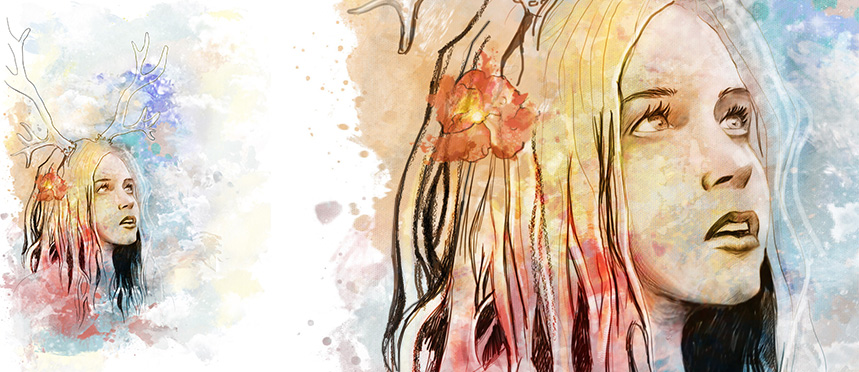
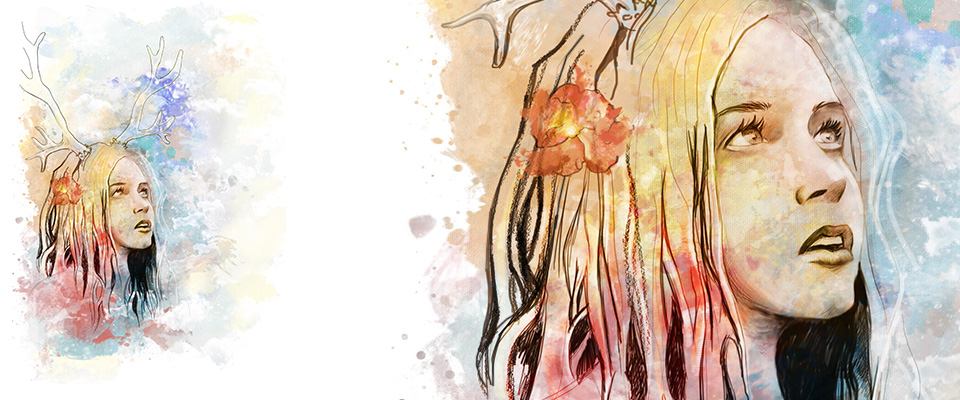
added slick images

diff --git a/index.html b/index.html
@@ -14,30 +14,38 @@
 
 		<meta name="viewport" content="width=device-width, initial-scale=1.0, maximum-scale=1.0, user-scalable=no">
 		<link rel="stylesheet" href="css/reveal.min.css">
-
-		<!-- If the query includes 'print-pdf', use the PDF print sheet -->
+        
+        <link rel="stylesheet" type="text/css" href="http://cdn.jsdelivr.net/jquery.slick/1.3.7/slick.css"/>
+        <!-- If the query includes 'print-pdf', use the PDF print sheet -->
 		<script>
 			document.write( '<link rel="stylesheet" href="css/print/' + ( window.location.search.match( /print-pdf/gi ) ? 'pdf' : 'paper' ) + '.css" type="text/css" media="print">' );
 		</script>
-
+        <script type="text/javascript" src="http://code.jquery.com/jquery-1.11.1.min.js"/></script>
+        <script type="text/javascript" src="http://cdn.jsdelivr.net/jquery.slick/1.3.7/slick.min.js"></script>
+        <script type="text/javascript" src="lib/js/head.min.js"></script>
 		<!--[if lt IE 9]>
 		<script src="lib/js/html5shiv.js"></script>
 		<![endif]-->
 
-<script type="text/javascript">
-    (function() {
-        var path = '//easy.myfonts.net/v2/js?sid=229904(font-family=Trend+Slab+One)&sid=229909(font-family=Trend+Sans+One)&key=etykpJaCdP',
-            protocol = ('https:' == document.location.protocol ? 'https:' : 'http:'),
-            trial = document.createElement('script');
-        trial.type = 'text/javascript';
-        trial.async = true;
-        trial.src = protocol + path;
-        var head = document.getElementsByTagName("head")[0];
-        head.appendChild(trial);
-    })();
-</script>
+        <!-- myfonts -->
+        <script type="text/javascript">
+            (function() {
+                var path = '//easy.myfonts.net/v2/js?sid=229904(font-family=Trend+Slab+One)&sid=229909(font-family=Trend+Sans+One)&key=etykpJaCdP',
+                    protocol = ('http:'),
+                    trial = document.createElement('script');
+                trial.type = 'text/javascript';
+                trial.async = true;
+                trial.src = protocol + path;
+                var head = document.getElementsByTagName("head")[0];
+                head.appendChild(trial);
+            })();
+        </script>
 
         <style type='text/css'>
+            #banner{
+                max-width: 100%;
+                max-height: 100%;
+            }
             .title{
                 float: right;
                 color: #676767;
@@ -53,59 +61,77 @@
                 height: 600px;
             }
             section .main_image{
-                margin-top: 3em;
+                margin-top: 7em;
             }
+
+            .slick-slide img{
+                max-width: 100% !important;
+                max-height: 100% !important;
+            }
+
+            .slick-prev:before, .slick-next:before{
+                color: #999;
+            }
+            .main_image .slick-dots{
+                display: block;
+                text-align: center;
+                padding: 0px;
+            }
+
             .tiff_creative{
                 position: absolute;
                 bottom: 0;
                 left: 0;
+                max-width: 100% !important;
+                max-height: 100% !important;
             }
             /*********************************************
- * NAVIGATION CONTROLS
- *********************************************/
-.reveal .controls div.navigate-left,
-.reveal .controls div.navigate-left.enabled {
-  border-right-color: #8adadb; }
+             * NAVIGATION CONTROLS
+             *********************************************/
+            .reveal .controls div.navigate-left,
+            .reveal .controls div.navigate-left.enabled {
+              border-right-color: #8adadb; }
 
-.reveal .controls div.navigate-right,
-.reveal .controls div.navigate-right.enabled {
-  border-left-color: #8adadb; }
+            .reveal .controls div.navigate-right,
+            .reveal .controls div.navigate-right.enabled {
+              border-left-color: #8adadb; }
 
-.reveal .controls div.navigate-up,
-.reveal .controls div.navigate-up.enabled {
-  border-bottom-color: #8adadb; }
+            .reveal .controls div.navigate-up,
+            .reveal .controls div.navigate-up.enabled {
+              border-bottom-color: #8adadb; }
 
-.reveal .controls div.navigate-down,
-.reveal .controls div.navigate-down.enabled {
-  border-top-color: #8adadb; }
+            .reveal .controls div.navigate-down,
+            .reveal .controls div.navigate-down.enabled {
+              border-top-color: #8adadb; }
 
-.reveal .controls div.navigate-left.enabled:hover {
-  border-right-color: #8adadb; }
+            .reveal .controls div.navigate-left.enabled:hover {
+              border-right-color: #8adadb; }
 
-.reveal .controls div.navigate-right.enabled:hover {
-  border-left-color: #8adadb; }
+            .reveal .controls div.navigate-right.enabled:hover {
+              border-left-color: #8adadb; }
 
-.reveal .controls div.navigate-up.enabled:hover {
-  border-bottom-color: #8adadb; }
+            .reveal .controls div.navigate-up.enabled:hover {
+              border-bottom-color: #8adadb; }
 
-.reveal .controls div.navigate-down.enabled:hover {
-  border-top-color: #8adadb; }
+            .reveal .controls div.navigate-down.enabled:hover {
+              border-top-color: #8adadb; }
 
-/*********************************************
- * PROGRESS BAR
- *********************************************/
-.reveal .progress {
-  background: rgba(0, 0, 0, 0.2); }
+            /*********************************************
+             * PROGRESS BAR
+             *********************************************/
+            .reveal .progress {
+              background: rgba(0, 0, 0, 0.2); }
 
-.reveal .progress span {
-  background: #8adadb;
-  -webkit-transition: width 800ms cubic-bezier(0.26, 0.86, 0.44, 0.985);
-  -moz-transition: width 800ms cubic-bezier(0.26, 0.86, 0.44, 0.985);
-  -ms-transition: width 800ms cubic-bezier(0.26, 0.86, 0.44, 0.985);
-  -o-transition: width 800ms cubic-bezier(0.26, 0.86, 0.44, 0.985);
-  transition: width 800ms cubic-bezier(0.26, 0.86, 0.44, 0.985); }
+            .reveal .progress span {
+              background: #8adadb;
+              -webkit-transition: width 800ms cubic-bezier(0.26, 0.86, 0.44, 0.985);
+              -moz-transition: width 800ms cubic-bezier(0.26, 0.86, 0.44, 0.985);
+              -ms-transition: width 800ms cubic-bezier(0.26, 0.86, 0.44, 0.985);
+              -o-transition: width 800ms cubic-bezier(0.26, 0.86, 0.44, 0.985);
+              transition: width 800ms cubic-bezier(0.26, 0.86, 0.44, 0.985); }
 
         </style>
+
 	</head>
 
 	<body>
@@ -115,14 +141,18 @@
 			<!-- Any section element inside of this container is displayed as a slide -->
 			<div class="slides">
 				<section data-background="images/subtle_white_feathers.png" data-background-repeat="repeat" data-background-size="500px">
-                    <img src="images/banner.jpg">
+                    <img id='banner' src="images/banner.jpg">
 				</section>
                 <section>
                     <div class='title'>
                         <h2>Satyr</h2>
                         <h3>Art Print</h3>
                     </div>
-                    <img class='main_image' src="images/satyr.jpg">
+                    <div class='main_image'>
+                        <div><img src="images/satyr.jpg"></div>
+                        <div><img src="images/template.jpg"></div>
+                        <div><img src="images/satyr.jpg"></div>
+                    </div>
                     <img class='tiff_creative' src="images/tiff_creative.jpg">
                 </section>
                 <section>
@@ -133,13 +163,27 @@
                     <img class='main_image' src="images/yggrawhatzit.jpg">
                     <img class='tiff_creative' src="images/tiff_creative.jpg">
                 </section>
+                <section>
+                    <div class='title'>
+                        <h2>Kris Kringle Craft Fair</h2>
+                        <h3>Christmas Card Designs</h3>
+                    </div>
+                    <div class='main_image'>
+                        <div><img src="images/bunny_sample_1.jpg"></div>
+                        <div><img src="images/bunny_sample_2.jpg"></div>
+                        <div><img src="images/bunny_sample_3.jpg"></div>
+                    </div>
+                    <img class='tiff_creative' src="images/tiff_creative.jpg">
+                </section>
 				
 			</div>
 
 		</div>
 
-		<script src="lib/js/head.min.js"></script>
-		<script src="js/reveal.min.js"></script>
+
+		
+		<script type="text/javascript" src="js/reveal.min.js"></script>
+        
 
 		<script>
 
@@ -163,6 +207,12 @@
 					{ src: 'plugin/zoom-js/zoom.js', async: true, condition: function() { return !!document.body.classList; } },
 				]
 			});
+
+            $(document).ready(function(){
+                $('.main_image').slick({
+                    dots: true,
+                })
+            })
 
 		</script>
 
